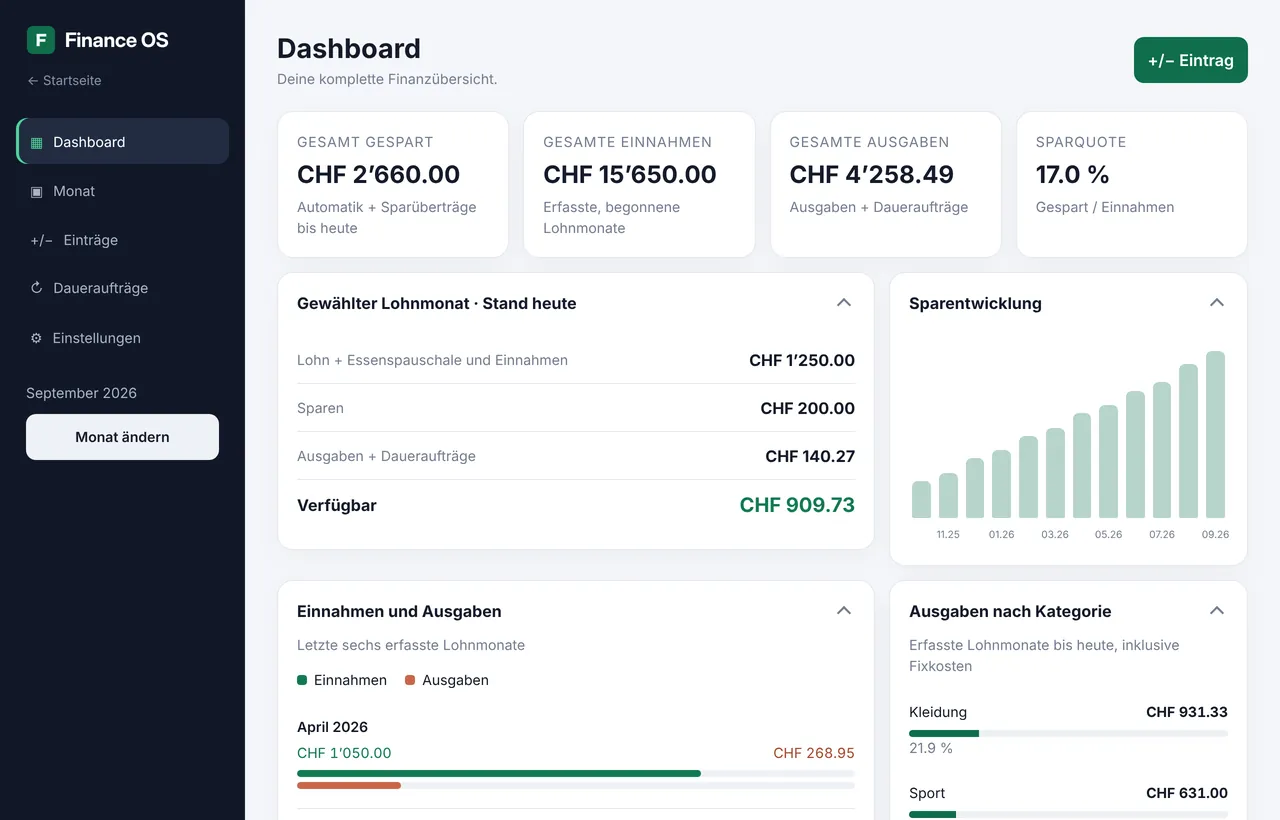
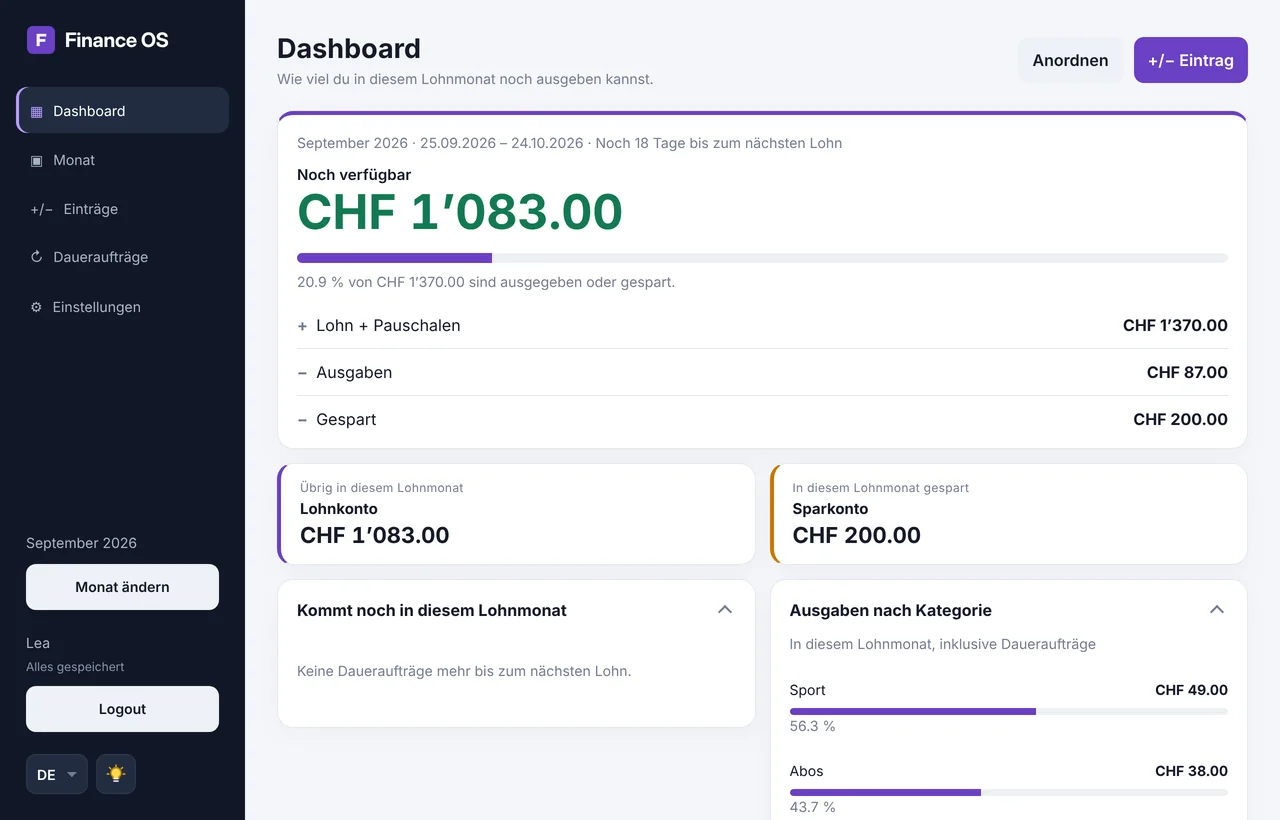
d

diff --git a/app.html b/app.html
@@ -17,17 +17,18 @@
     <link rel="apple-touch-icon" href="img/apple-touch-icon.png" />
     <link rel="manifest" href="manifest.webmanifest" />
     <!-- Styles: base.css applies everywhere, then one file per page, responsive.css last -->
-    <script src="js/translations.js?v=2026100701"></script>
-    <script src="js/i18n.js?v=2026100701"></script>
-    <link rel="stylesheet" href="css/base.css?v=2026100701" />
-    <link rel="stylesheet" href="css/dashboard.css?v=2026100701" />
-    <link rel="stylesheet" href="css/month.css?v=2026100701" />
-    <link rel="stylesheet" href="css/month-entry.css?v=2026100701" />
-    <link rel="stylesheet" href="css/settings.css?v=2026100701" />
-    <link rel="stylesheet" href="css/themes.css?v=2026100701" />
-    <link rel="stylesheet" href="css/tour.css?v=2026100701" />
-    <link rel="stylesheet" href="css/setup.css?v=2026100701" />
-    <link rel="stylesheet" href="css/responsive.css?v=2026100701" />
+    <script src="js/translations.js?v=2026100703"></script>
+    <script src="js/i18n.js?v=2026100703"></script>
+    <script src="js/update.js?v=2026100703" defer></script>
+    <link rel="stylesheet" href="css/base.css?v=2026100703" />
+    <link rel="stylesheet" href="css/dashboard.css?v=2026100703" />
+    <link rel="stylesheet" href="css/month.css?v=2026100703" />
+    <link rel="stylesheet" href="css/month-entry.css?v=2026100703" />
+    <link rel="stylesheet" href="css/settings.css?v=2026100703" />
+    <link rel="stylesheet" href="css/themes.css?v=2026100703" />
+    <link rel="stylesheet" href="css/tour.css?v=2026100703" />
+    <link rel="stylesheet" href="css/setup.css?v=2026100703" />
+    <link rel="stylesheet" href="css/responsive.css?v=2026100703" />
   </head>
   <body>
     <div id="toast" class="toast" role="status" hidden></div>
@@ -814,9 +815,9 @@
     </div>
 
     <!-- api.js: connection to the backend (login + database). app.js: the app logic -->
-    <script src="js/api.js?v=2026100701"></script>
-    <script src="js/tour.js?v=2026100701"></script>
-    <script src="js/setup.js?v=2026100701"></script>
-    <script src="js/app.js?v=2026100701"></script>
+    <script src="js/api.js?v=2026100703"></script>
+    <script src="js/tour.js?v=2026100703"></script>
+    <script src="js/setup.js?v=2026100703"></script>
+    <script src="js/app.js?v=2026100703"></script>
   </body>
 </html>

diff --git a/js/update.js b/js/update.js
@@ -1,0 +1,56 @@
+// Tells visitors when a newer version of the website is online.
+//
+// Every page loads this file as js/update.js?v=<version>. version.json contains the version that
+// is online right now. If they differ (after a push with a new ?v= number), a note with
+// "Neu laden" appears. Checked shortly after opening, every 5 minutes and when the tab or the
+// home-screen app becomes visible again.
+//
+// New version: replace the number in all files at once (IntelliJ: Ctrl+Shift+R), including version.json.
+
+(() => {
+  const script = document.currentScript;
+  const current = script && new URL(script.src).searchParams.get("v");
+  if (!current) return;
+  const t = (text) => (window.I18N ? I18N.t(text) : text);
+  let shown = false;
+
+  async function check() {
+    if (shown || document.hidden) return;
+    try {
+      const response = await fetch(`version.json?t=${Date.now()}`, { cache: "no-store" });
+      if (!response.ok) return;
+      const { version } = await response.json();
+      if (version && String(version) !== current) show();
+    } catch {
+      // Offline or file missing: try again later.
+    }
+  }
+
+  // Loads the page itself fresh first, so the reload does not show the cached old version.
+  async function reload(button) {
+    button.disabled = true;
+    try {
+      await fetch(location.pathname, { cache: "reload" });
+    } catch {
+      // Reload anyway.
+    }
+    location.reload();
+  }
+
+  function show() {
+    shown = true;
+    const note = document.createElement("div");
+    note.className = "update-note";
+    note.setAttribute("role", "status");
+    note.innerHTML = `<span>${t("Eine neue Version von Finance OS ist da.")}</span>
+      <button type="button" class="update-reload">${t("Neu laden")}</button>
+      <button type="button" class="update-close" aria-label="${t("Schliessen")}">×</button>`;
+    note.querySelector(".update-reload").addEventListener("click", (event) => reload(event.currentTarget));
+    note.querySelector(".update-close").addEventListener("click", () => note.remove());
+    document.body.append(note);
+  }
+
+  setTimeout(check, 4000);
+  setInterval(check, 5 * 60 * 1000);
+  document.addEventListener("visibilitychange", check);
+})();

diff --git a/css/base.css b/css/base.css
@@ -48,10 +48,11 @@
   --orange: #c77700;
   --spending: #c86748;
   /* Brand colour (also logo and landing page): buttons, active menu item, progress */
-  --brand: #0f6e4b;
-  --brand-hover: #0b5a3d;
-  --brand-soft: #e6f3ec;
-  --brand-light: #4fd49a;
+  /* Main colour (Lila); the other accent colours are in themes.css */
+  --brand: #6b40c4;
+  --brand-hover: #56339e;
+  --brand-soft: #efe9fb;
+  --brand-light: #b89cff;
   --brand-text: var(--brand);
   /* Other surfaces, overridden in dark mode (see below) */
   --field: #fff;
@@ -1131,4 +1132,46 @@ tr.more-row:hover td {
     padding: 11px 6px;
     margin: -11px -6px;
   }
+}
+
+/* "Eine neue Version von Finance OS ist da" (js/update.js) */
+.update-note {
+  position: fixed;
+  top: max(12px, env(safe-area-inset-top));
+  left: 50%;
+  z-index: 1100;
+  display: flex;
+  align-items: center;
+  gap: 10px;
+  width: max-content;
+  max-width: calc(100vw - 24px);
+  padding: 8px 8px 8px 16px;
+  border-radius: 14px;
+  background: var(--accent);
+  color: var(--on-dark);
+  box-shadow: var(--shadow-toast);
+  font-size: 14px;
+  transform: translateX(-50%);
+}
+
+.update-reload {
+  min-height: 36px;
+  padding: 6px 12px;
+  border: 0;
+  border-radius: 9px;
+  background: var(--brand);
+  color: var(--on-dark);
+  font-weight: 700;
+  white-space: nowrap;
+}
+
+.update-close {
+  min-height: 36px;
+  width: 32px;
+  padding: 0;
+  border: 0;
+  background: none;
+  color: var(--on-dark-muted);
+  font-size: 20px;
+  line-height: 1;
 }

diff --git a/kontakt.html b/kontakt.html
@@ -14,12 +14,13 @@
     <link rel="manifest" href="manifest.webmanifest" />
     <meta name="apple-mobile-web-app-capable" content="yes" />
     <meta name="apple-mobile-web-app-title" content="Finance OS" />
-    <script src="js/translations.js?v=2026100701"></script>
-    <script src="js/i18n.js?v=2026100701"></script>
-    <script src="js/site.js?v=2026100701"></script>
-    <link rel="stylesheet" href="css/base.css?v=2026100701" />
-    <link rel="stylesheet" href="css/login.css?v=2026100701" />
-    <link rel="stylesheet" href="css/contact.css?v=2026100701" />
+    <script src="js/translations.js?v=2026100703"></script>
+    <script src="js/i18n.js?v=2026100703"></script>
+    <script src="js/update.js?v=2026100703" defer></script>
+    <script src="js/site.js?v=2026100703"></script>
+    <link rel="stylesheet" href="css/base.css?v=2026100703" />
+    <link rel="stylesheet" href="css/login.css?v=2026100703" />
+    <link rel="stylesheet" href="css/contact.css?v=2026100703" />
   </head>
   <body>
     <main class="legal-page contact-page">
@@ -97,8 +98,8 @@
         <a href="kontakt.html">Kontakt</a>
       </p>
     </main>
-    <script src="js/api.js?v=2026100701"></script>
-    <script src="js/back.js?v=2026100701"></script>
-    <script src="js/contact.js?v=2026100701"></script>
+    <script src="js/api.js?v=2026100703"></script>
+    <script src="js/back.js?v=2026100703"></script>
+    <script src="js/contact.js?v=2026100703"></script>
   </body>
 </html>

diff --git a/e2e/settings.spec.js b/e2e/settings.spec.js
@@ -119,11 +119,14 @@ test("colour, dark mode and text size are applied and saved with the account", a
   await openTab(page, "look");
   // The radio buttons are hidden; people click their labels.
   const choose = (name, value) => page.locator("label", { has: page.locator(`input[name="${name}"][value="${value}"]`) }).click();
-  await choose("accent", "violet");
+  // New accounts start with Lila
+  await expect(page.locator("html")).toHaveAttribute("data-accent", "violet");
+  await expect(page.locator('input[name="accent"][value="violet"]')).toBeChecked();
+  await choose("accent", "blue");
   await choose("mode", "dark");
   await choose("text", "large");
   const html = page.locator("html");
-  await expect(html).toHaveAttribute("data-accent", "violet");
+  await expect(html).toHaveAttribute("data-accent", "blue");
   await expect(html).toHaveAttribute("data-theme", "dark");
   await expect(html).toHaveAttribute("data-text", "large");
 
@@ -131,7 +134,7 @@ test("colour, dark mode and text size are applied and saved with the account", a
   await page.evaluate(() => localStorage.removeItem("financeOS_appearance")); // only the account remembers it
   await page.reload();
   await expect(page.locator("#financeApp")).toBeVisible();
-  await expect(html).toHaveAttribute("data-accent", "violet");
+  await expect(html).toHaveAttribute("data-accent", "blue");
   await expect(html).toHaveAttribute("data-theme", "dark");
 });
 

diff --git a/login.html b/login.html
@@ -14,11 +14,12 @@
     <link rel="manifest" href="manifest.webmanifest" />
     <meta name="apple-mobile-web-app-capable" content="yes" />
     <meta name="apple-mobile-web-app-title" content="Finance OS" />
-    <script src="js/translations.js?v=2026100701"></script>
-    <script src="js/i18n.js?v=2026100701"></script>
-    <script src="js/site.js?v=2026100701"></script>
-    <link rel="stylesheet" href="css/base.css?v=2026100701" />
-    <link rel="stylesheet" href="css/login.css?v=2026100701" />
+    <script src="js/translations.js?v=2026100703"></script>
+    <script src="js/i18n.js?v=2026100703"></script>
+    <script src="js/update.js?v=2026100703" defer></script>
+    <script src="js/site.js?v=2026100703"></script>
+    <link rel="stylesheet" href="css/base.css?v=2026100703" />
+    <link rel="stylesheet" href="css/login.css?v=2026100703" />
   </head>
   <body>
     <div class="auth-layout">
@@ -149,7 +150,7 @@
       </main>
     </div>
 
-    <script src="js/api.js?v=2026100701"></script>
-    <script src="js/login.js?v=2026100701"></script>
+    <script src="js/api.js?v=2026100703"></script>
+    <script src="js/login.js?v=2026100703"></script>
   </body>
 </html>

diff --git a/index.html b/index.html
@@ -20,11 +20,12 @@
     <link rel="manifest" href="manifest.webmanifest" />
     <meta name="apple-mobile-web-app-capable" content="yes" />
     <meta name="apple-mobile-web-app-title" content="Finance OS" />
-    <script src="js/translations.js?v=2026100701"></script>
-    <script src="js/i18n.js?v=2026100701"></script>
-    <script src="js/site.js?v=2026100701"></script>
-    <link rel="stylesheet" href="css/base.css?v=2026100701" />
-    <link rel="stylesheet" href="css/landing.css?v=2026100701" />
+    <script src="js/translations.js?v=2026100703"></script>
+    <script src="js/i18n.js?v=2026100703"></script>
+    <script src="js/update.js?v=2026100703" defer></script>
+    <script src="js/site.js?v=2026100703"></script>
+    <link rel="stylesheet" href="css/base.css?v=2026100703" />
+    <link rel="stylesheet" href="css/landing.css?v=2026100703" />
   </head>
   <body class="landing">
     <a class="skip-link" href="#content">Zum Inhalt springen</a>
@@ -343,6 +344,6 @@
         <p>© 2026 Finance OS, Zürich</p>
       </div>
     </footer>
-    <script src="js/landing.js?v=2026100701"></script>
+    <script src="js/landing.js?v=2026100703"></script>
   </body>
 </html>

diff --git a/datenschutz.html b/datenschutz.html
@@ -13,11 +13,12 @@
     <link rel="manifest" href="manifest.webmanifest" />
     <meta name="apple-mobile-web-app-capable" content="yes" />
     <meta name="apple-mobile-web-app-title" content="Finance OS" />
-    <script src="js/translations.js?v=2026100701"></script>
-    <script src="js/i18n.js?v=2026100701"></script>
-    <script src="js/site.js?v=2026100701"></script>
-    <link rel="stylesheet" href="css/base.css?v=2026100701" />
-    <link rel="stylesheet" href="css/login.css?v=2026100701" />
+    <script src="js/translations.js?v=2026100703"></script>
+    <script src="js/i18n.js?v=2026100703"></script>
+    <script src="js/update.js?v=2026100703" defer></script>
+    <script src="js/site.js?v=2026100703"></script>
+    <link rel="stylesheet" href="css/base.css?v=2026100703" />
+    <link rel="stylesheet" href="css/login.css?v=2026100703" />
   </head>
   <body>
     <main class="legal-page">
@@ -188,6 +189,6 @@
         <a href="kontakt.html">Kontakt</a>
       </p>
     </main>
-    <script src="js/back.js?v=2026100701"></script>
+    <script src="js/back.js?v=2026100703"></script>
   </body>
 </html>

diff --git a/nutzungsbedingungen.html b/nutzungsbedingungen.html
@@ -13,11 +13,12 @@
     <link rel="manifest" href="manifest.webmanifest" />
     <meta name="apple-mobile-web-app-capable" content="yes" />
     <meta name="apple-mobile-web-app-title" content="Finance OS" />
-    <script src="js/translations.js?v=2026100701"></script>
-    <script src="js/i18n.js?v=2026100701"></script>
-    <script src="js/site.js?v=2026100701"></script>
-    <link rel="stylesheet" href="css/base.css?v=2026100701" />
-    <link rel="stylesheet" href="css/login.css?v=2026100701" />
+    <script src="js/translations.js?v=2026100703"></script>
+    <script src="js/i18n.js?v=2026100703"></script>
+    <script src="js/update.js?v=2026100703" defer></script>
+    <script src="js/site.js?v=2026100703"></script>
+    <link rel="stylesheet" href="css/base.css?v=2026100703" />
+    <link rel="stylesheet" href="css/login.css?v=2026100703" />
   </head>
   <body>
     <main class="legal-page">
@@ -119,6 +120,6 @@
         <a href="kontakt.html">Kontakt</a>
       </p>
     </main>
-    <script src="js/back.js?v=2026100701"></script>
+    <script src="js/back.js?v=2026100703"></script>
   </body>
 </html>

diff --git a/impressum.html b/impressum.html
@@ -13,11 +13,12 @@
     <link rel="manifest" href="manifest.webmanifest" />
     <meta name="apple-mobile-web-app-capable" content="yes" />
     <meta name="apple-mobile-web-app-title" content="Finance OS" />
-    <script src="js/translations.js?v=2026100701"></script>
-    <script src="js/i18n.js?v=2026100701"></script>
-    <script src="js/site.js?v=2026100701"></script>
-    <link rel="stylesheet" href="css/base.css?v=2026100701" />
-    <link rel="stylesheet" href="css/login.css?v=2026100701" />
+    <script src="js/translations.js?v=2026100703"></script>
+    <script src="js/i18n.js?v=2026100703"></script>
+    <script src="js/update.js?v=2026100703" defer></script>
+    <script src="js/site.js?v=2026100703"></script>
+    <link rel="stylesheet" href="css/base.css?v=2026100703" />
+    <link rel="stylesheet" href="css/login.css?v=2026100703" />
   </head>
   <body>
     <main class="legal-page">
@@ -80,6 +81,6 @@
         <a href="kontakt.html">Kontakt</a>
       </p>
     </main>
-    <script src="js/back.js?v=2026100701"></script>
+    <script src="js/back.js?v=2026100703"></script>
   </body>
 </html>

diff --git a/e2e/landing.spec.js b/e2e/landing.spec.js
@@ -81,3 +81,19 @@ test("the app can be added to the home screen (manifest and icons)", async ({ pa
   const touchIcon = await page.locator('link[rel="apple-touch-icon"]').getAttribute("href");
   expect((await request.get("/" + touchIcon)).ok()).toBeTruthy();
 });
+
+test("a note offers to reload when a newer version is online", async ({ page }) => {
+  await page.route("**/version.json*", (route) => route.fulfill({ contentType: "application/json", body: '{"version":"9999999999"}' }));
+  await page.goto("/index.html");
+  const note = page.locator(".update-note");
+  await expect(note).toBeVisible({ timeout: 10000 });
+  await expect(note).toContainText("Neu laden");
+  await note.locator(".update-close").click();
+  await expect(note).toHaveCount(0);
+});
+
+test("no note while the page is up to date", async ({ page }) => {
+  await page.goto("/index.html");
+  await page.waitForTimeout(5000);
+  await expect(page.locator(".update-note")).toHaveCount(0);
+});

diff --git a/css/themes.css b/css/themes.css
@@ -1,12 +1,19 @@
 /* Appearance: accent colour, light/dark mode, text size.
    Controlled by attributes on <html>, set by applyAppearance() in app.js:
-     data-accent = green | blue | violet | orange | pink
+     data-accent = green | blue | violet (default) | orange | pink
      data-theme  = light | dark   (without the attribute the page follows the device)
      data-text   = normal | large
    To add a colour: copy a [data-accent="…"] block here and add a colour button
    under "Darstellung" in app.html. */
 
-/* Accent colours */
+/* Accent colours (Lila is the default in base.css) */
+
+:root[data-accent="green"] {
+  --brand: #0f6e4b;
+  --brand-hover: #0b5a3d;
+  --brand-soft: #e6f3ec;
+  --brand-light: #4fd49a;
+}
 
 :root[data-accent="blue"] {
   --brand: #1d5fc4;
